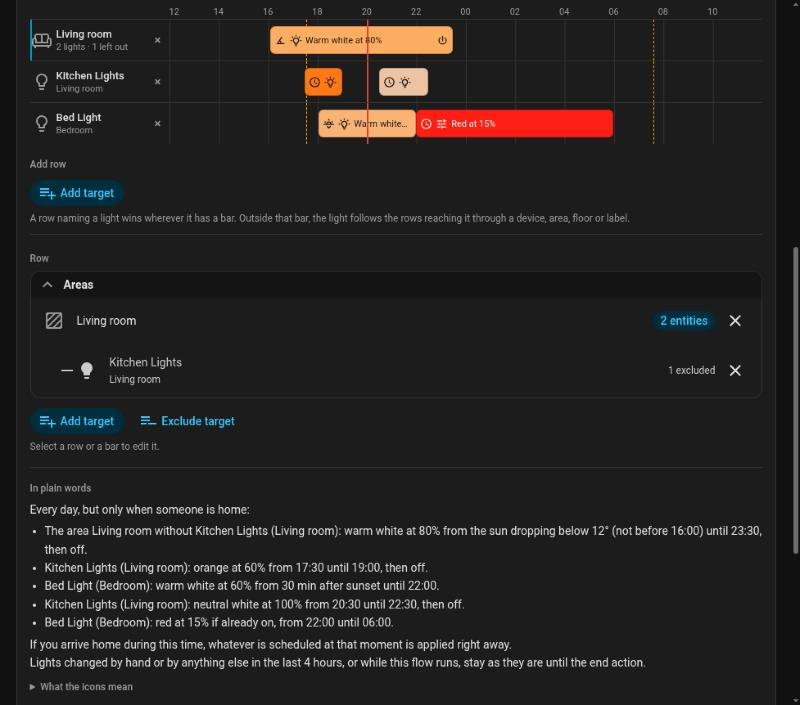
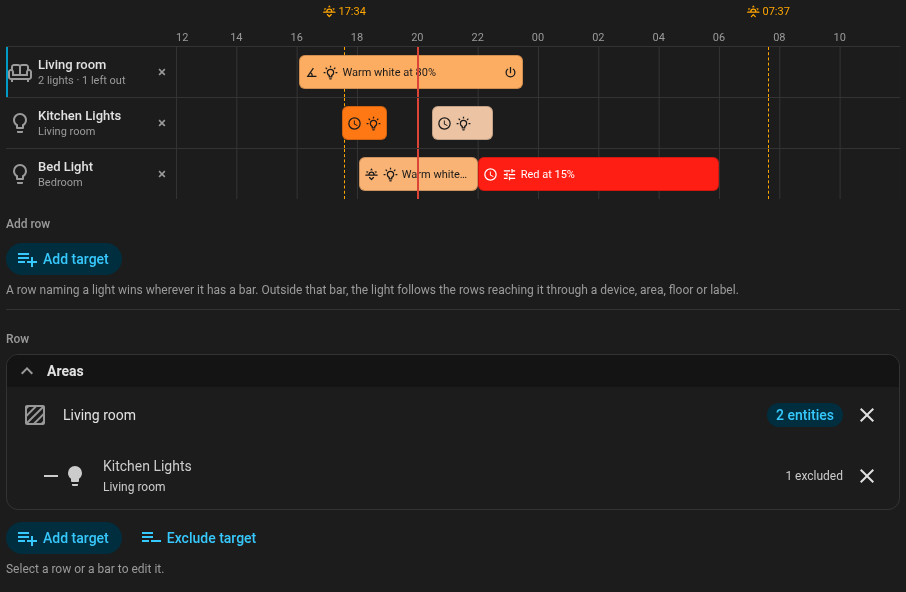
Update the README and its images

diff --git a/README.md b/README.md
@@ -16,22 +16,28 @@ Schedule your Home Assistant lights on a visual timeline in the sidebar, without
 
 Say your evening lights start at sunset, two more lamps join at 17:30, one goes off at 19:00, and the bedroom turns dim red at 22:00. Light Planner keeps that schedule in one named flow you can see and drag, and when you come home at 20:00 it sets every lamp to what it should be at that moment.
 
-![The timeline of a flow](https://raw.githubusercontent.com/rhd944dot1/light-planner/main/docs/images/timeline.png)
+![Dragging bars on the timeline of a flow](https://raw.githubusercontent.com/rhd944dot1/light-planner/main/docs/images/timeline.gif)
 
 ## Features
 
 - **Named flows**: a light schedule such as "Evening light". Each row on the timeline is a target, each bar a time window for it. Lights can join and leave one after another.
-- **Drag to edit**: move a bar, drag its edges, click an empty spot to add a time window.
+- **Drag to edit**: move a bar, drag its edges, click an empty spot to add a time window. On a phone, tap a bar first, then drag its arrows.
 - **Home Assistant's own target picker**: lights, devices, areas, floors, labels and scenes, several in one row. A newly labeled light joins on its own. From Home Assistant 2026.11 you can exclude things from a target, such as a device's status LED.
 - **Start** at a time, at sunset or sunrise with an offset, or when the sun drops below an elevation, optionally "not before" a time.
 - **End** at a time or at sunset or sunrise with an offset, then turn off, restore the previous state, or do nothing.
-- **Looks per time window**: white, color, keep color, off, or leave alone.
+- **Looks per time window**: white, any color from a color wheel, keep color, off, or leave alone.
 - **Weekdays** and **conditions**: anyone, everyone or nobody home, a specific person, or presence doesn't matter.
 - **Arriving home** applies whatever is scheduled at that moment, even if you missed the start.
 - **Don't touch manually changed lights**: an optional setting per flow leaves lights alone that someone or something else changed.
 - **Plain-language summary** of what each flow does, and a **simulation** of what happens when you arrive home at any time.
+- **English and German**, following your Home Assistant language.
 
 ![Picking a target and leaving something out](https://raw.githubusercontent.com/rhd944dot1/light-planner/main/docs/images/target-picker.png)
+
+<p>
+  <img src="https://raw.githubusercontent.com/rhd944dot1/light-planner/main/docs/images/editor.png" alt="Editing a time window with the color wheel" width="49%" align="top">
+  <img src="https://raw.githubusercontent.com/rhd944dot1/light-planner/main/docs/images/simulation.png" alt="The simulation of arriving home" width="49%" align="top">
+</p>
 
 ## Requirements
 
@@ -58,7 +64,7 @@ Remove **Light Planner** under **Settings > Devices & services**. This also dele
 
 1. Select **New flow** and give it a name.
 2. Under **Add row**, pick a light, device, area, label or scene.
-3. Click the row's empty timeline to add a time window, then drag it into place.
+3. Click or tap the row's empty timeline to add a time window, then drag it into place.
 4. Select the bar to set its start, end and look.
 5. Choose when the flow applies, read **In plain words** to check it does what you mean, and select **Save**.
 
